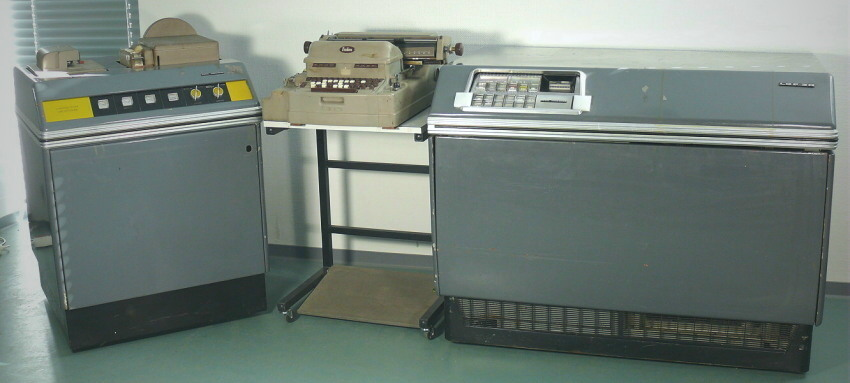
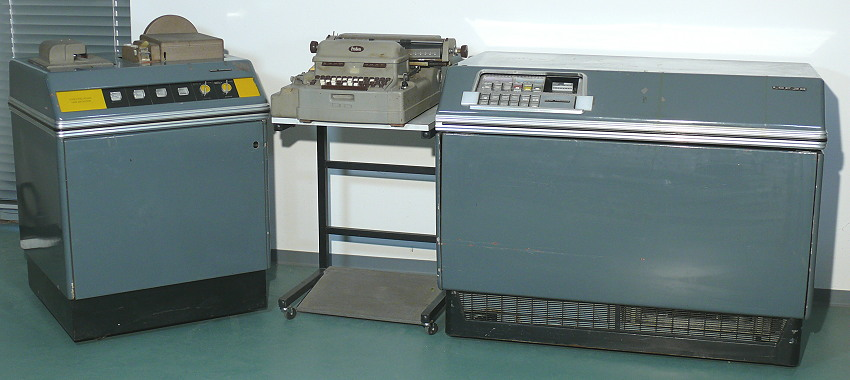
zwei Bilder nebeneinander (gas funktioniert ja schon) doch der Text soll nur unter einspaltig weiterlaufen....
git-svn-id: https://www.technikum29.de/svn/technikum29-www@852 388e7c26-a98e-49f6-8d48-46b9a15b27c2

diff --git a/de/rechnertechnik/lgp30.php b/de/rechnertechnik/lgp30.php
@@ -10,27 +10,35 @@
 
 <p>Ein interessanter Neuzugang im September 2015:<br><br>
 Dieser für damalige Verhältnisse sehr kleine Rechner kam 1958 auf den Europäischen Markt. Er wurde von der deutschen Firma Schoppe & Faeser in Lizenz von Librascope (USA) gebaut. In den USA wurde das Modell ab 1956 verkauft. Gerade mal ca. 40 Stück wurden von dem Röhrencomputer der 1. Generation in Europa gebaut. Er war als wissenschaftlicher Rechner mit Trommelspeicher konzipiert und arbeitet mit nur 115 Elektronenröhren.<br>
-Zum Speichern von Programmen und Daten werden 1"-Lochstreifen verwendet, die ein Schnell-Leser bzw. -Stanzer verarbeitet. Als "Drucker" (besser Ausgabegerät) dient ein "Flexowriter", im Prinzip eine elektrische Schreibmaschine mit Lochstreifenzusatz.</p>
+Zum Speichern von Programmen und Daten werden 1"-Lochstreifen verwendet, die ein Schnell-Leser bzw. -Stanzer verarbeitet. Als "Drucker" (besser Ausgabegerät) dient der "Flexowriter" von FRIDEN, im Prinzip eine elektrische Schreibmaschine mit Lochstreifenzusatz.</p>
 
 <div class="center">
-		<img src="/shared/photos/rechnertechnik/lgp30-1.jpg" alt="LGP 30 Anlage" width="850" height="383" />
+		<img src="/shared/photos/rechnertechnik/lgp30-1.jpg" alt="LGP 30 Anlage" width="850" height="380" />
 		<div class="bildtext">	
 		<p><b>LGP 30 Röhrenrechner vor der Restauration</b></p> 
 		</div></div>
 		
 <p>Bei unserem Rechner fehlen die Verbindungskabel zu den Lochstreifengeräten und zum Flexowriter. Daher suchen wir Steckverbindungen, siehe. Ansonsten ist der Zustand altersgemäß. Die Bleche müssen neu lackiert und die Mechanik wieder gangbar gemacht werden. Erst danach wird sich zeigen welche Fehler die Elektronik aufweist. Eine echte Herausforderung.</p>
+
 		
-	<div class="desc-left auto-bildbreite borderless no-copyright">
+	<div class="desc-left borderless no-copyright">
     <a class="popup" href="/shared/photos/rechnertechnik/lgp30-2.jpg">
 		<img src="/shared/photos/rechnertechnik/lgp30-2.jpg" alt="Frontansicht, offen" width="350" height="266" /></a>	
 		<div class="bildtext">	
 			<p><b>Vorderansicht, ohne Verkleidung</b></p> <a class="popup" href="/shared/photos/rechnertechnik/lgp30-2.jpg"> Bild vergrößern</a> 
 		</div></div>	
 				
-		<div class="desc-right auto-bildbreite borderless no-copyright">
+		<div class="desc-right borderless no-copyright">
     <a class="popup" href="/shared/photos/rechnertechnik/lgp30-3.jpg">
 		<img src="/shared/photos/rechnertechnik/lgp30-3.jpg" alt="Rückansicht, offen" width="350" height="262" /></a>	
 		<div class="bildtext">	
 			<p><b>Rückansicht, ohne Verkleidung</b></p> <a class="popup" href="/shared/photos/rechnertechnik/lgp30-3.jpg"> Bild vergrößern</a> 
-		</div></div>			
+		</div></div>	
+
+<p class="small">Hier ein paar Daten zu unserem LGP-30. Der Verbleib bis 1962 ist nicht geklärt. Von 1962 bis 1980 wurde er im Landesvermessungsamt wie folgt eingesetzt.	<br>
+1.  Kataster: Zur Koordinatenberechnung und Herstellung von Steuerlochstreifen für die automatische Kartierung (ZUSE Graphomat Z64), Umrechnung alter Polygonierungen durch Polygonzugberechnungen, Affin- oder Helmert-Transformationen.<br>
+2.  Landesvermessung: Ausgleich trigonometrischer Netze, Auswertung von Aerotriangulationen.</small>	
+
+
+
 
